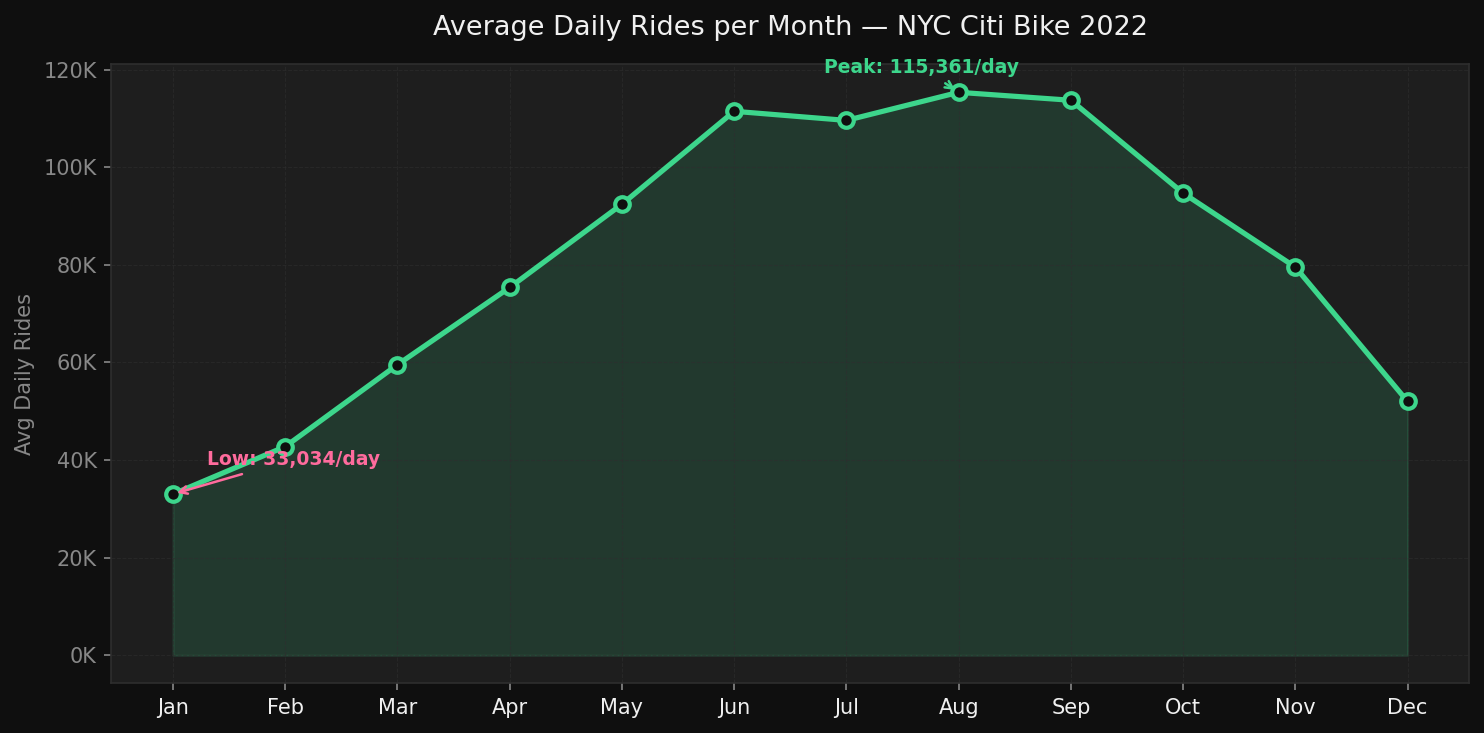
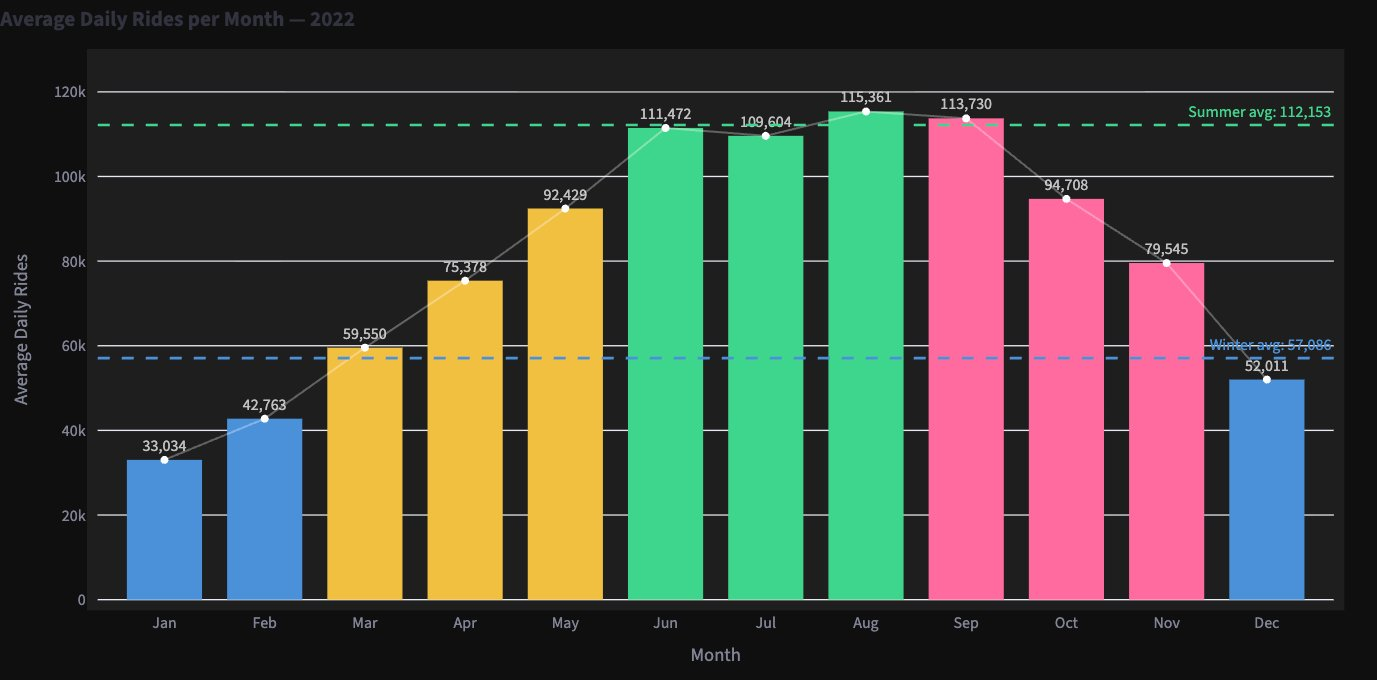
Add files via upload

diff --git a/citi-bike-case-study-de.html b/citi-bike-case-study-de.html
@@ -215,25 +215,25 @@
   </table>
 
   <h2>Saisonalität treibt die Nachfrage</h2>
-  <p>Die durchschnittlichen täglichen Fahrten folgen einem klaren saisonalen Bogen. Die Nutzung steigt von einem Januar-Tief um <strong>33.000 Fahrten/Tag</strong>, erreicht im Spätsommer einen Höhepunkt von rund <strong>115.000 Fahrten/Tag</strong> und fällt mit sinkenden Temperaturen scharf ab. Der Unterschied zwischen Spitze und Tief ist ein 3-facher Multiplikator in der täglichen Nachfrage.</p>
+  <p>Die durchschnittlichen täglichen Fahrten folgen einem klaren saisonalen Bogen. Die Nutzung steigt von einem Januar-Tief um <strong>33.000 Fahrten/Tag</strong>, erreicht im Spätsommer einen Höhepunkt von rund <strong>115.000 Fahrten/Tag</strong> und fällt mit sinkenden Temperaturen scharf ab. Der Sommerschnitt liegt bei <strong>112.153 Fahrten/Tag</strong> gegen einen Winterschnitt von <strong>57.086</strong> — fast die doppelte Spanne.</p>
   <figure class="case-figure">
-    <img src="citi-monthly-trends.png" alt="Durchschnittliche tägliche Citi-Bike-Fahrten pro Monat, 2022"/>
-    <figcaption>Abbildung 1. Durchschnittliche tägliche Fahrten pro Monat. Spitzennachfrage Juni–September; Wintertief etwa die Hälfte der Sommernachfrage.</figcaption>
+    <img src="citi-monthly-trends.png" alt="Durchschnittliche tägliche Citi-Bike-Fahrten pro Monat, 2022, mit Sommer- und Winterdurchschnittslinien"/>
+    <figcaption>Abbildung 1. Durchschnittliche tägliche Fahrten pro Monat, 2022. Balken nach Saison gefärbt; Referenzlinien markieren die Sommer- (~112K) und Winterdurchschnitte (~57K).</figcaption>
   </figure>
   <div class="insight-box green">
     <p class="insight-title">Erkenntnis — Saisonale Skalierungsbasis</p>
-    <p>Die Winternachfrage (Nov–Apr) liegt im Schnitt bei ~50 % der Sommernachfrage (Jun–Aug). Das quantifiziert direkt, um wieviel Rebalancing-Intensität und Personalplanung im Winter reduziert werden können.</p>
+    <p>Die Winternachfrage (Nov–Apr) liegt im Schnitt bei rund der Hälfte der Sommernachfrage (Jun–Aug). Das quantifiziert direkt, wieviel Rebalancing-Intensität und Personalplanung im Winter reduziert werden können — und wie früh die Sommer-Hochlaufphase beginnen sollte.</p>
   </div>
 
   <h2>Temperatur sagt die tägliche Nutzung voraus</h2>
-  <p>Die Überlagerung der täglichen Fahrtenanzahl mit der NOAA-Durchschnittstemperatur zeigt, dass beide Signale eng zusammenhängen. Kälteeinbrüche führen zu starken Rückgängen; Wärmeperioden treiben die Zahlen zu saisonalen Höchstwerten.</p>
+  <p>Die Überlagerung der täglichen Fahrtenanzahl mit der NOAA-Durchschnittstemperatur zeigt, dass beide Signale tagweise über das ganze Jahr eng zusammenlaufen. Die Streudiagramm-Sicht überführt dieselbe Beziehung in eine einzelne Trendlinie: jede zusätzliche Durchschnittstemperatur in °C entspricht einem messbaren Anstieg der erwarteten Nutzung.</p>
   <figure class="case-figure">
-    <img src="citi-trip-vs-temp.png" alt="Tägliche Fahrten überlagert mit Tagesdurchschnittstemperatur"/>
-    <figcaption>Abbildung 2. Doppelachse: Fahrten vs. Tagesdurchschnittstemperatur. Die Kurven verlaufen eng — bestätigt Temperatur als primäre Planungsgröße.</figcaption>
+    <img src="citi-trip-vs-temp.png" alt="Doppelachsen-Zeitreihe: tägliche Citi-Bike-Fahrten überlagert mit Tagesdurchschnittstemperatur"/>
+    <figcaption>Abbildung 2. Doppelachsen-Tagesreihe: Fahrten (grün) vs. Durchschnittstemperatur (orange gestrichelt). Die Kurven verlaufen über das gesamte Jahr im Gleichtakt.</figcaption>
   </figure>
   <figure class="case-figure">
-    <img src="citi-temp-scatter.png" alt="Streudiagramm: tägliche Fahrten vs. Tagesdurchschnittstemperatur"/>
-    <figcaption>Abbildung 3. Streudiagramm: Fahrten vs. Temperatur. Die Beziehung ist monoton und stark positiv im komfortablen Fahrbereich.</figcaption>
+    <img src="citi-temp-scatter.png" alt="Streudiagramm: tägliche Fahrten vs. Tagesdurchschnittstemperatur, nach Monat eingefärbt"/>
+    <figcaption>Abbildung 3. Streudiagramm-Sicht derselben Beziehung, nach Monat eingefärbt. Die Trendlinie ist positiv und annähernd linear im komfortablen Fahrbereich; kalte Wintertage clustern unten links, Sommerhochs oben rechts.</figcaption>
   </figure>
   <div class="insight-box blue">
     <p class="insight-title">Erkenntnis — Temperatur als Planungssignal</p>
@@ -241,33 +241,21 @@
   </div>
 
   <h2>Stationskonzentration: Wo die Nachfrage sitzt</h2>
-  <p>Die Nachfrage ist stark konzentriert. Die Top-10-Startstationen erfassen einen überproportionalen Anteil aller Fahrten — vor allem an Pendler-Knoten und am Hudson-Ufer.</p>
+  <p>Die Nachfrage ist stark konzentriert. Die meistgenutzte Startstation — W 21 St &amp; 6 Ave — erzeugte 2022 <strong>128.436 Fahrten</strong>. Der Rest der Top 10 liegt in einem engen Band zwischen 94K und 122K, alle in zentralem Manhattan: von Chelsea und Tribeca durch Midtown bis zur Upper East Side.</p>
   <figure class="case-figure">
-    <img src="popular-stations-citibike.png" alt="Top 10 beliebteste Citi-Bike-Startstationen, 2022"/>
-    <figcaption>Abbildung 4. Top 10 Startstationen. Die Nachfrage ist stark zu den Top-Stationen verschoben — Rebalancing dort hat hohen Hebel.</figcaption>
+    <img src="popular-stations-citibike.png" alt="Top 10 beliebteste Citi-Bike-Startstationen 2022, nach Fahrtenanzahl sortiert"/>
+    <figcaption>Abbildung 4. Top 10 beliebteste Startstationen. Alle zehn liegen in zentralem Manhattan — hochpriorisierte Kandidaten für Dock-Kapazität und Rebalancing-Frequenz.</figcaption>
   </figure>
   <div class="insight-box yellow">
     <p class="insight-title">Erkenntnis — Rebalancing-Hebel ist konzentriert</p>
-    <p>Da Fahrtenstarts an wenigen Stationen geclustert sind, erzielen Rebalancing-Teams überproportionale Effekte, wenn sie sich auf die Top-10-Stationen konzentrieren statt gleichmäßig zu verteilen.</p>
+    <p>Da Fahrtenstarts an wenigen zentralen Manhattan-Stationen geclustert sind, erzielen Rebalancing-Teams überproportionale Effekte, wenn sie sich auf diese Top-10-Stationen konzentrieren statt gleichmäßig über das Netz zu verteilen.</p>
   </div>
 
-  <h2>Streamlit-Dashboard — Mehrseitige App</h2>
-  <p>Die vollständige Analyse wird als deploytes 6-seitiges Streamlit-Dashboard ausgeliefert mit Seitennavigation und Daten-Caching. Jede Seite adressiert eine andere Betriebsfrage.</p>
+  <h2>Räumliche Fahrtmuster</h2>
+  <p>Die Kepler.gl-Karte zeigt Bewegungsmuster, die in stationsbezogenen Aggregaten unsichtbar bleiben. Fahrtcluster konzentrieren sich auf Manhattans Geschäftskorridor und das Hudson-Ufer, mit Sekundärclustern in Lower Manhattan und Brooklyn. Die Bögen zeigen, wohin Fahrer tatsächlich fahren — nicht nur, wo sie starten.</p>
   <figure class="case-figure">
-    <img src="citi-dashboard-1.png" alt="Citi-Bike-Dashboard — Einführungsseite"/>
-    <figcaption>Abbildung 5. Einführungsseite — definiert Umfang, Datenquellen und Navigation.</figcaption>
-  </figure>
-  <figure class="case-figure">
-    <img src="citi-dashboard-2.png" alt="Citi-Bike-Dashboard — Trends und Wetter"/>
-    <figcaption>Abbildung 6. Trends und Wetter — interaktive saisonale und Temperatur-Diagramme.</figcaption>
-  </figure>
-  <figure class="case-figure">
-    <img src="citi-dashboard-3.png" alt="Citi-Bike-Dashboard — Top-Stationen"/>
-    <figcaption>Abbildung 7. Top-Stationen — Ranking der nachgefragtesten Ursprünge für die Rebalancing-Planung.</figcaption>
-  </figure>
-  <figure class="case-figure">
-    <img src="citi-dashboard-4.png" alt="Citi-Bike-Dashboard — Empfehlungen"/>
-    <figcaption>Abbildung 8. Empfehlungen — verbindet Evidenz mit operativen Maßnahmen.</figcaption>
+    <img src="citi-kepler-map.png" alt="Kepler.gl interaktive Karte der NYC Citi-Bike-Fahrten, 2022"/>
+    <figcaption>Abbildung 5. Kepler.gl-Karte: Fahrtursprünge, -ziele und -bögen über NYC. Die Dichte bestätigt das Manhattan-zentrische Muster aus dem Stationsranking und zeigt sekundäre Knotenpunkte, die das Balkendiagramm allein verbirgt.</figcaption>
   </figure>
 
   <h2>Kernergebnisse</h2>

diff --git a/citi-bike-case-study.html b/citi-bike-case-study.html
@@ -215,25 +215,25 @@
   </table>
 
   <h2>Seasonality Drives Demand</h2>
-  <p>Average daily rides follow a clear seasonal arc across 2022. Ridership climbs from a January low of around <strong>33,000 rides/day</strong>, peaks at roughly <strong>115,000 rides/day</strong> in late summer, then falls sharply as temperatures drop. The difference between peak and trough is a 3x+ multiplier in daily demand.</p>
+  <p>Average daily rides follow a clear seasonal arc across 2022. Ridership climbs from a January low of around <strong>33,000 rides/day</strong>, peaks at roughly <strong>115,000 rides/day</strong> in late summer, then falls sharply as temperatures drop. Summer averages <strong>112,153 rides/day</strong> against a winter average of <strong>57,086</strong> — almost a 2× spread.</p>
   <figure class="case-figure">
-    <img src="citi-monthly-trends.png" alt="Average daily Citi Bike rides per month, 2022"/>
-    <figcaption>Figure 1. Average daily rides per month, 2022. Peak demand runs June–September; the winter trough averages roughly half of summer demand.</figcaption>
+    <img src="citi-monthly-trends.png" alt="Average daily Citi Bike rides per month, 2022, with summer and winter average reference lines"/>
+    <figcaption>Figure 1. Average daily rides per month, 2022. Bars are coloured by season; reference lines mark the summer (~112K) and winter (~57K) daily averages.</figcaption>
   </figure>
   <div class="insight-box green">
     <p class="insight-title">Key Insight — Seasonal scaling baseline</p>
-    <p>Winter demand (Nov–Apr) averages ~50% of summer demand (Jun–Aug). This directly quantifies how much redistribution intensity and staffing can be reduced in winter — and how early summer ramp-up should begin.</p>
+    <p>Winter demand (Nov–Apr) averages roughly half of summer demand (Jun–Aug). This directly quantifies how much redistribution intensity and staffing can be reduced in winter — and how early the summer ramp-up should begin.</p>
   </div>
 
   <h2>Temperature Predicts Daily Ridership</h2>
-  <p>Overlaying daily ride counts with NOAA average temperature shows the two signals track each other closely across the full year. Cold snaps produce sharp drops; warm stretches push counts toward seasonal peaks.</p>
+  <p>Overlaying daily ride counts with NOAA average temperature shows the two signals tracking each other day-by-day across the full year. The scatter view turns the same relationship into a single trend line: each additional degree of average temperature corresponds to a measurable lift in expected ridership.</p>
   <figure class="case-figure">
-    <img src="citi-trip-vs-temp.png" alt="Daily rides overlaid with daily average temperature, 2022"/>
-    <figcaption>Figure 2. Dual-axis: rides vs daily average temperature. The two curves track each other closely — supporting temperature as a primary planning input.</figcaption>
+    <img src="citi-trip-vs-temp.png" alt="Dual-axis time series: daily Citi Bike rides overlaid with daily average temperature, 2022"/>
+    <figcaption>Figure 2. Dual-axis daily series: rides (green) vs average temperature (orange dashed). The two curves move in lockstep across the entire year.</figcaption>
   </figure>
   <figure class="case-figure">
-    <img src="citi-temp-scatter.png" alt="Daily rides vs daily average temperature scatter plot"/>
-    <figcaption>Figure 3. Scatter: rides vs temperature. The relationship is monotonic and strongly positive across the comfortable riding range.</figcaption>
+    <img src="citi-temp-scatter.png" alt="Scatter plot of daily rides vs daily average temperature, coloured by month"/>
+    <figcaption>Figure 3. Scatter view of the same relationship, coloured by month. The trend line is positive and roughly linear across the comfortable riding range; cold winter days cluster in the bottom-left, peak summer in the top-right.</figcaption>
   </figure>
   <div class="insight-box blue">
     <p class="insight-title">Key Insight — Temperature as a planning signal</p>
@@ -241,33 +241,21 @@
   </div>
 
   <h2>Station Concentration: Where Demand Sits</h2>
-  <p>Trip demand is heavily concentrated. The top 10 starting stations capture a disproportionate share of total trip starts — primarily clustering around major commuting hubs and Hudson River waterfront access points.</p>
+  <p>Trip demand is heavily concentrated. The single busiest start station — W 21 St &amp; 6 Ave — generated <strong>128,436 trips</strong> in 2022. The rest of the top 10 sit in a tight band between 94K and 122K, all within central Manhattan: from Chelsea and Tribeca up through Midtown to the Upper East Side.</p>
   <figure class="case-figure">
-    <img src="popular-stations-citibike.png" alt="Top 10 most popular Citi Bike start stations, 2022"/>
-    <figcaption>Figure 4. Top 10 most popular start stations. Demand is heavily skewed toward the top stations — meaning rebalancing has high leverage when concentrated there.</figcaption>
+    <img src="popular-stations-citibike.png" alt="Top 10 most popular Citi Bike start stations in 2022, ranked by trip count"/>
+    <figcaption>Figure 4. Top 10 most popular start stations. All ten sit in central Manhattan — making them high-priority targets for dock capacity and rebalancing frequency.</figcaption>
   </figure>
   <div class="insight-box yellow">
     <p class="insight-title">Key Insight — Rebalancing leverage is concentrated</p>
-    <p>Because trip starts cluster heavily at a small set of stations, rebalancing crews can drive disproportionate operational gains by prioritizing redistribution to and from the top 10 stations rather than allocating attention uniformly.</p>
+    <p>Because trip starts cluster heavily at a small set of central Manhattan stations, rebalancing crews can drive disproportionate operational gains by prioritising redistribution to and from these top 10 stations rather than allocating attention uniformly across the network.</p>
   </div>
 
-  <h2>Streamlit Dashboard — Multi-Page App</h2>
-  <p>The full analysis is delivered as a deployed 6-page Streamlit dashboard with sidebar navigation and cached data loading. Each page targets a different operational question.</p>
+  <h2>Spatial Trip Patterns</h2>
+  <p>The Kepler.gl map reveals movement patterns invisible in station-level aggregates. Trip clusters are concentrated in Manhattan's business corridor and along the Hudson waterfront, with secondary clusters in Lower Manhattan and Brooklyn. The arcs show where riders actually go — not just where they start.</p>
   <figure class="case-figure">
-    <img src="citi-dashboard-1.png" alt="Citi Bike dashboard — Intro page"/>
-    <figcaption>Figure 5. Dashboard intro page — defines scope, data sources, and dashboard navigation.</figcaption>
-  </figure>
-  <figure class="case-figure">
-    <img src="citi-dashboard-2.png" alt="Citi Bike dashboard — Trends and weather"/>
-    <figcaption>Figure 6. Trends and weather page — interactive seasonal and temperature charts.</figcaption>
-  </figure>
-  <figure class="case-figure">
-    <img src="citi-dashboard-3.png" alt="Citi Bike dashboard — Top stations"/>
-    <figcaption>Figure 7. Top stations page — ranking of busiest origins for rebalancing planning.</figcaption>
-  </figure>
-  <figure class="case-figure">
-    <img src="citi-dashboard-4.png" alt="Citi Bike dashboard — Recommendations"/>
-    <figcaption>Figure 8. Recommendations page — ties evidence to operational actions.</figcaption>
+    <img src="citi-kepler-map.png" alt="Kepler.gl interactive trip map of NYC Citi Bike rides, 2022"/>
+    <figcaption>Figure 5. Kepler.gl spatial map: trip origins, destinations, and arcs across NYC. Density confirms the Manhattan-centric pattern seen in the station rankings, and surfaces secondary hubs that the bar chart alone hides.</figcaption>
   </figure>
 
   <h2>Key Findings</h2>

diff --git a/index-de.html b/index-de.html
@@ -226,7 +226,7 @@
         </div>
       </a>
       <a href="citi-bike-case-study-de.html" class="project-card" data-tags="python tableau">
-        <img src="citi-dashboard-3.png" alt="NYC Citi Bike Dashboard (2022)" class="project-img" />
+        <img src="citi-monthly-trends.png" alt="NYC Citi Bike Dashboard (2022)" class="project-img" />
         <div class="project-body">
           <div class="project-meta"><span class="project-type">Geospatial · Dashboard</span><span class="project-badge">Python</span></div>
           <h3 class="project-title">NYC Citi Bike Dashboard (2022)</h3>

diff --git a/index.html b/index.html
@@ -226,7 +226,7 @@
         </div>
       </a>
       <a href="citi-bike-case-study.html" class="project-card" data-tags="python tableau">
-        <img src="citi-dashboard-3.png" alt="NYC Citi Bike Dashboard (2022)" class="project-img" />
+        <img src="citi-monthly-trends.png" alt="NYC Citi Bike Dashboard (2022)" class="project-img" />
         <div class="project-body">
           <div class="project-meta"><span class="project-type">Geospatial · Dashboard</span><span class="project-badge">Python</span></div>
           <h3 class="project-title">NYC Citi Bike Dashboard (2022)</h3>
